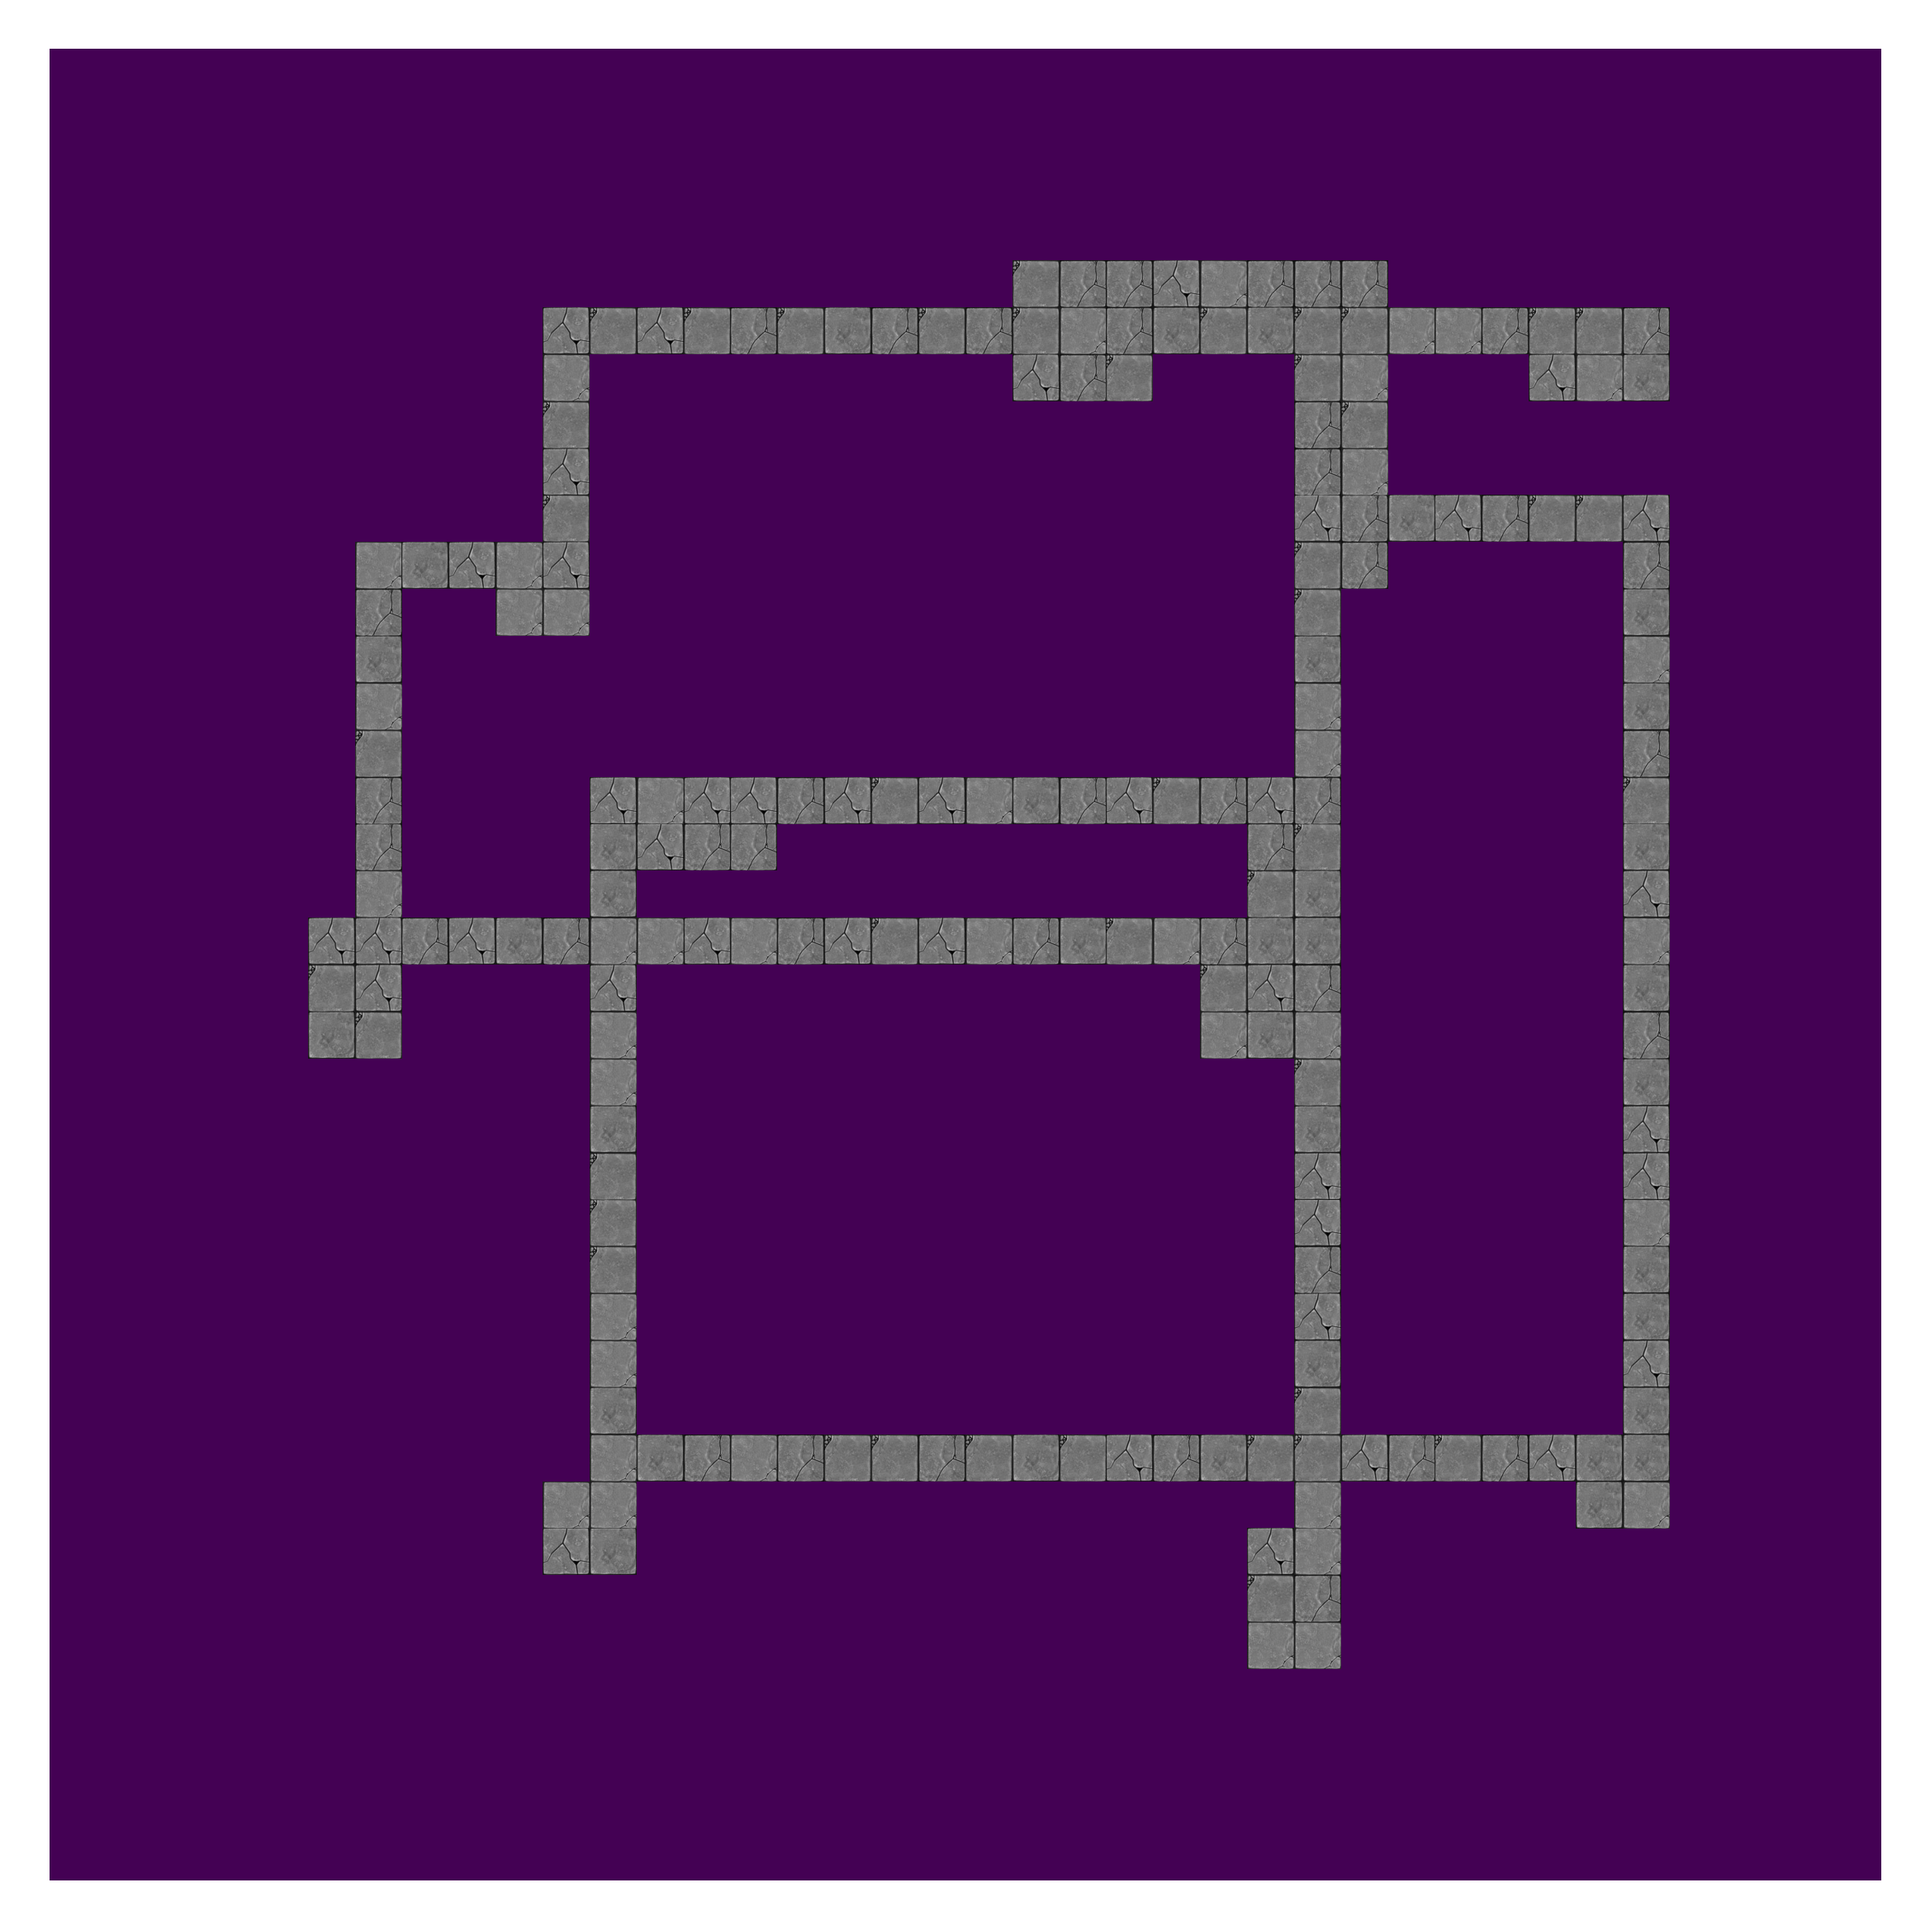
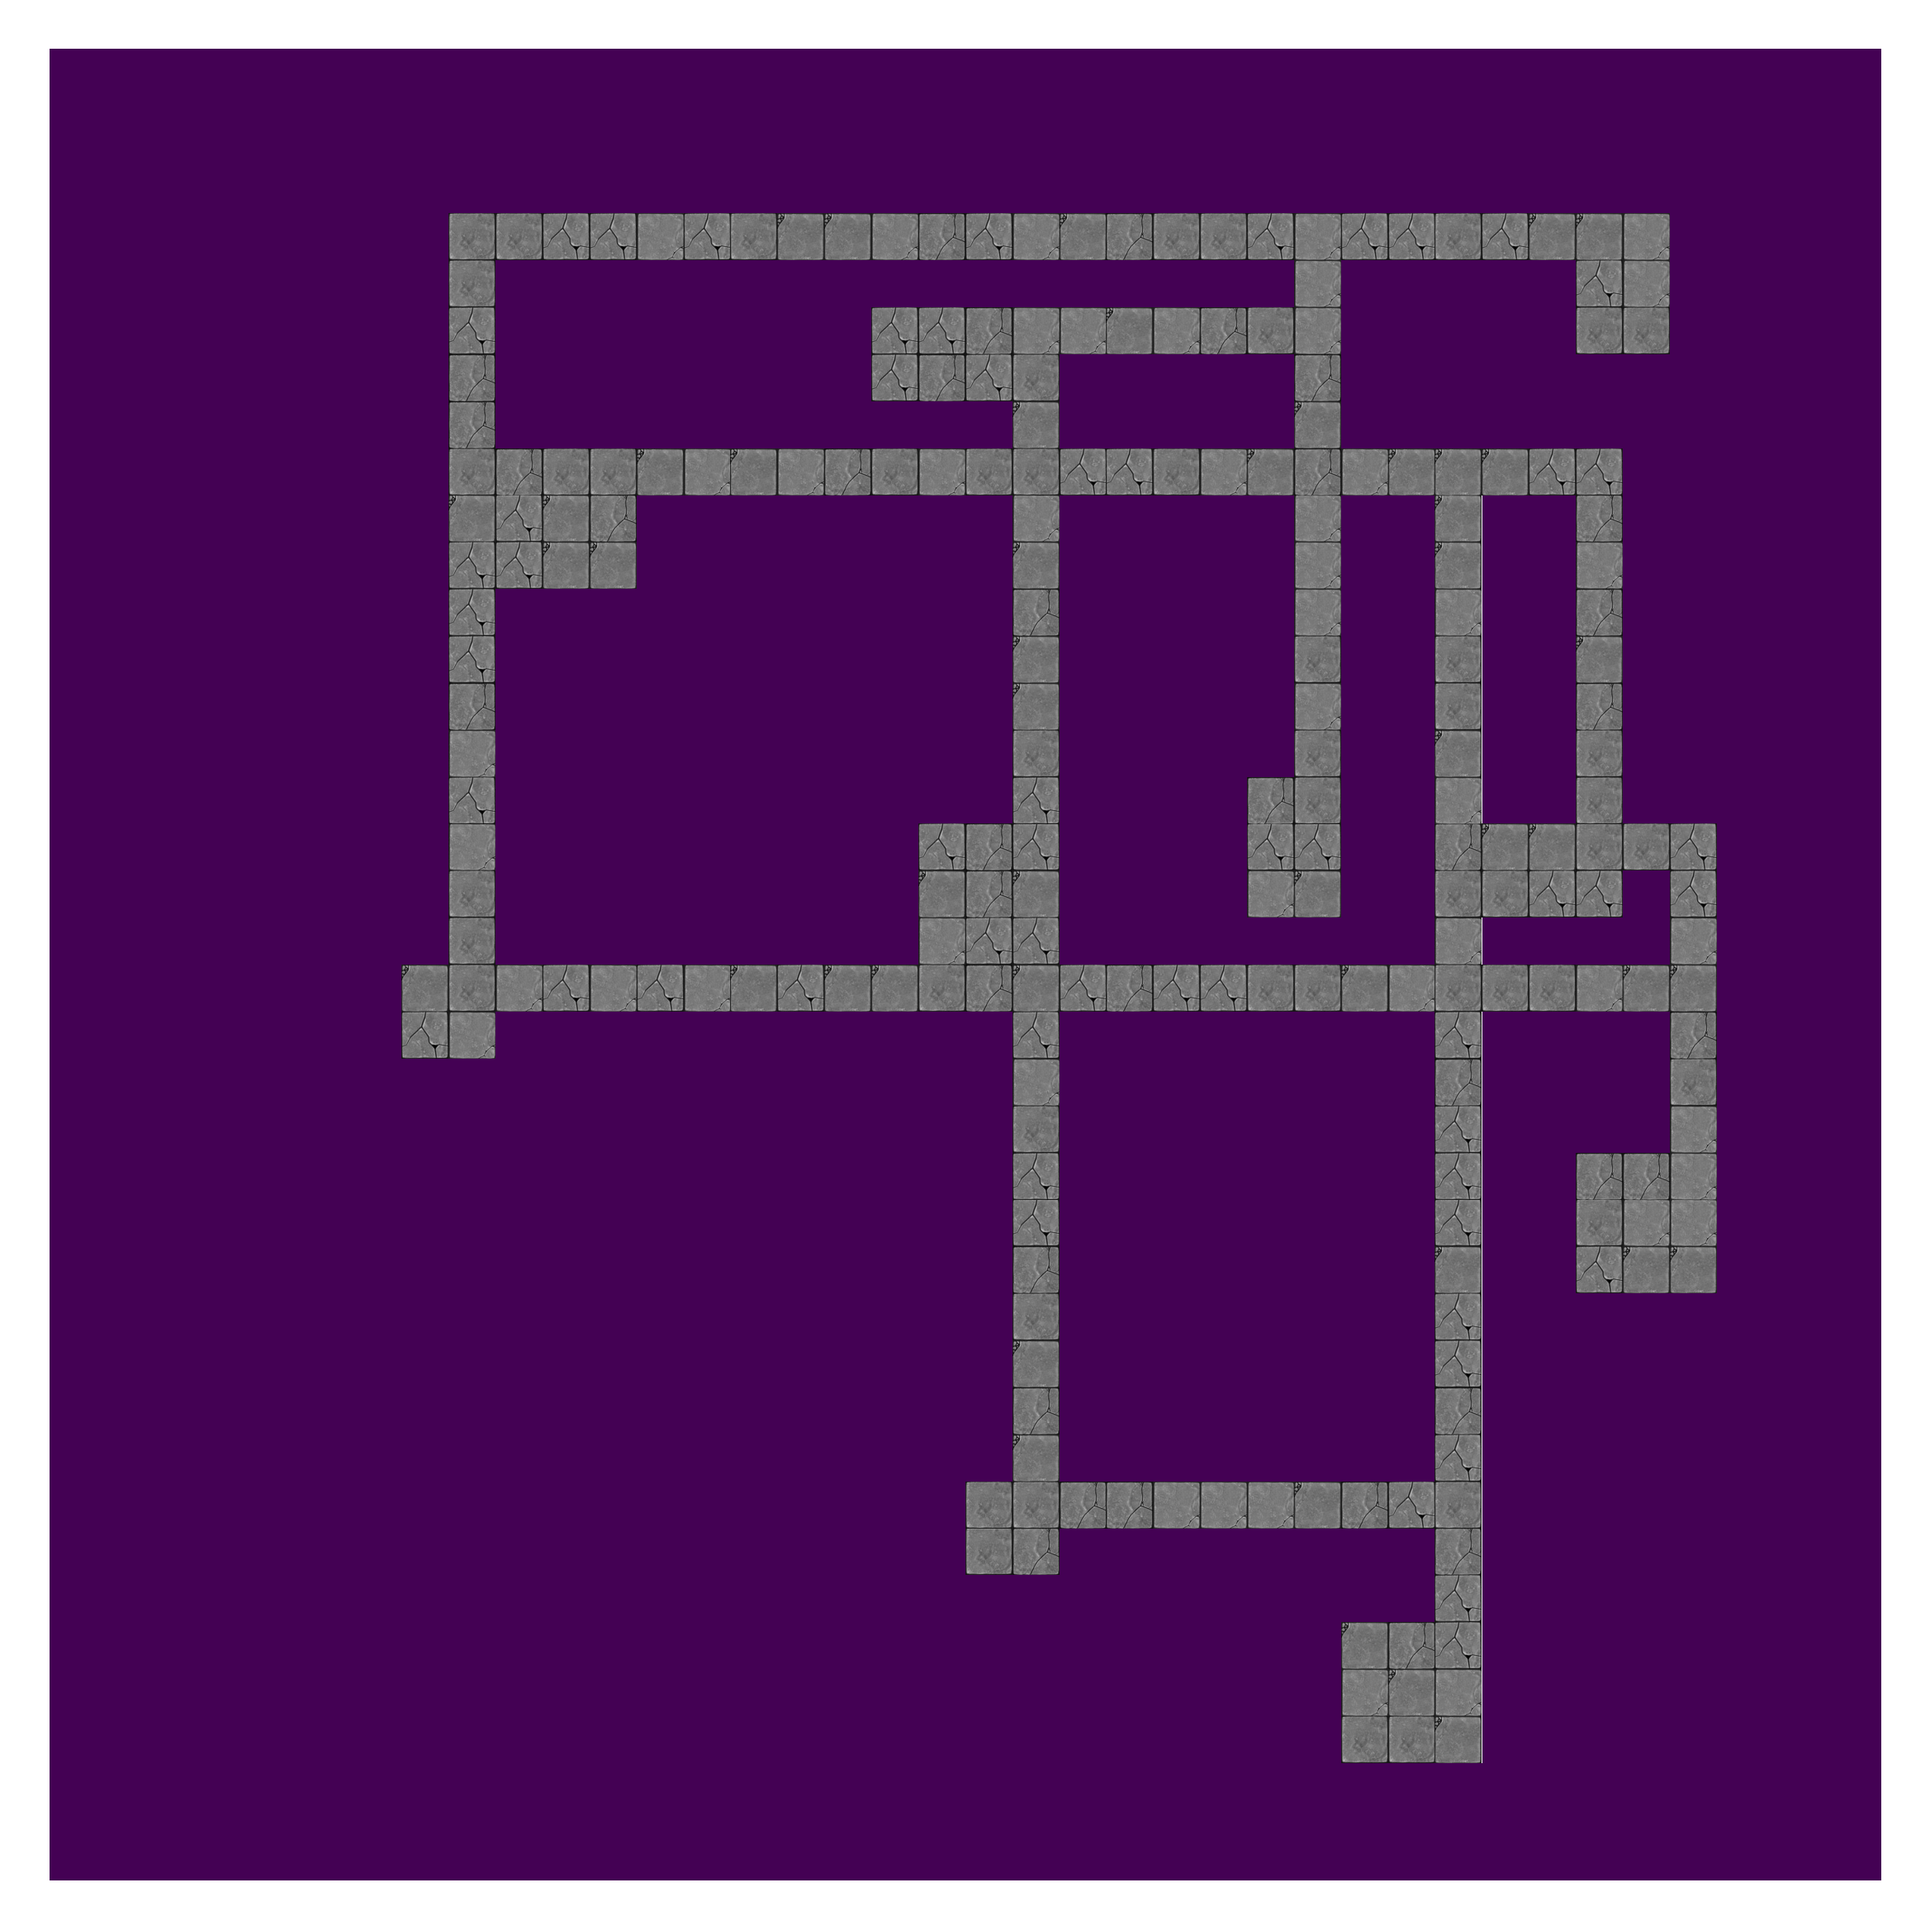
debug push
c

Changed region(s): [[0.1562, 0.0937, 0.9059, 0.9371]]

diff --git a/jsonGenerator.py b/jsonGenerator.py
@@ -115,7 +115,7 @@ def generateJson():
     output+=gen0.generateBoard()
     output+=gen0.generateDungeonBricks(data)
     # output+=gen0.generateDungeonHats(data)+","
-    output+=gen0.generateDungeonFillings(data2,0)
+    # output+=gen0.generateDungeonFillings(data2,0) #THIS ONES IS FOR FILLINGS
     # output+=gen0.generateDungeonFillingHats(data2)+","
     output+=gen0.generateDungeonFillings(data3,0) #THIS ONE IS FOR THE ROOMS
     # output+=gen0.generateDungeonFillingHats(data3)
